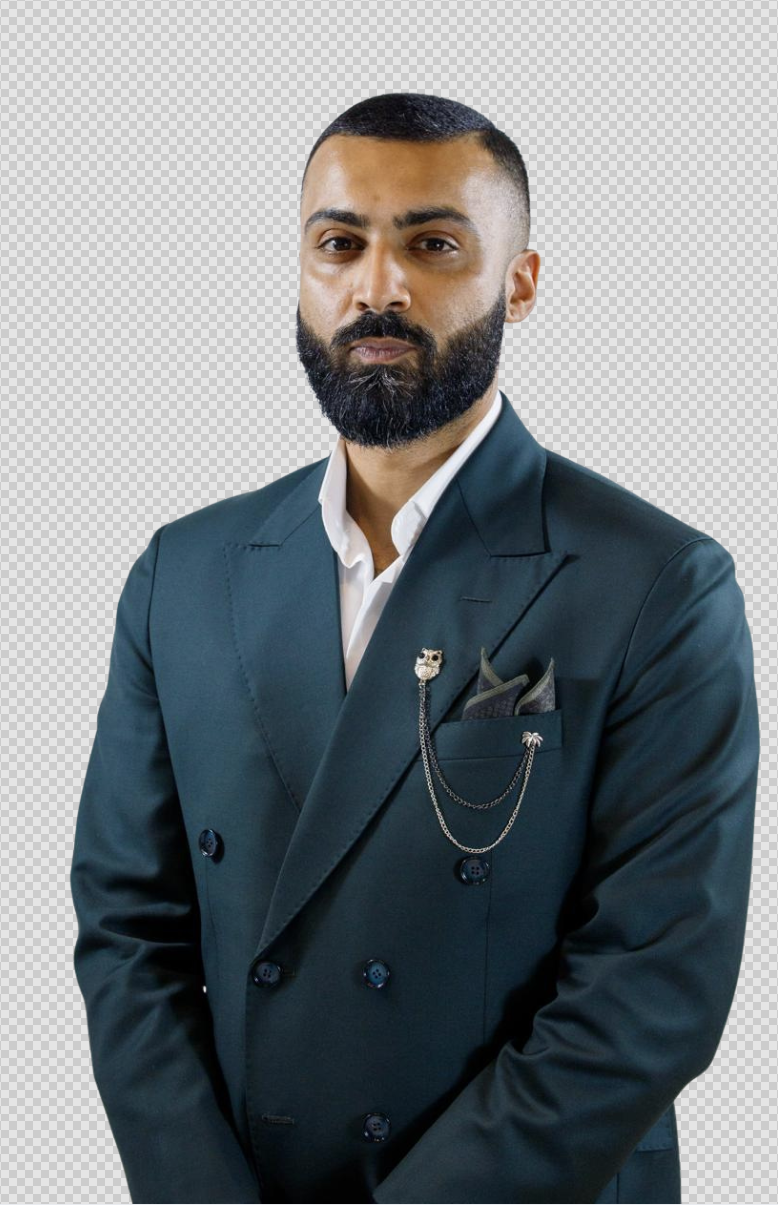
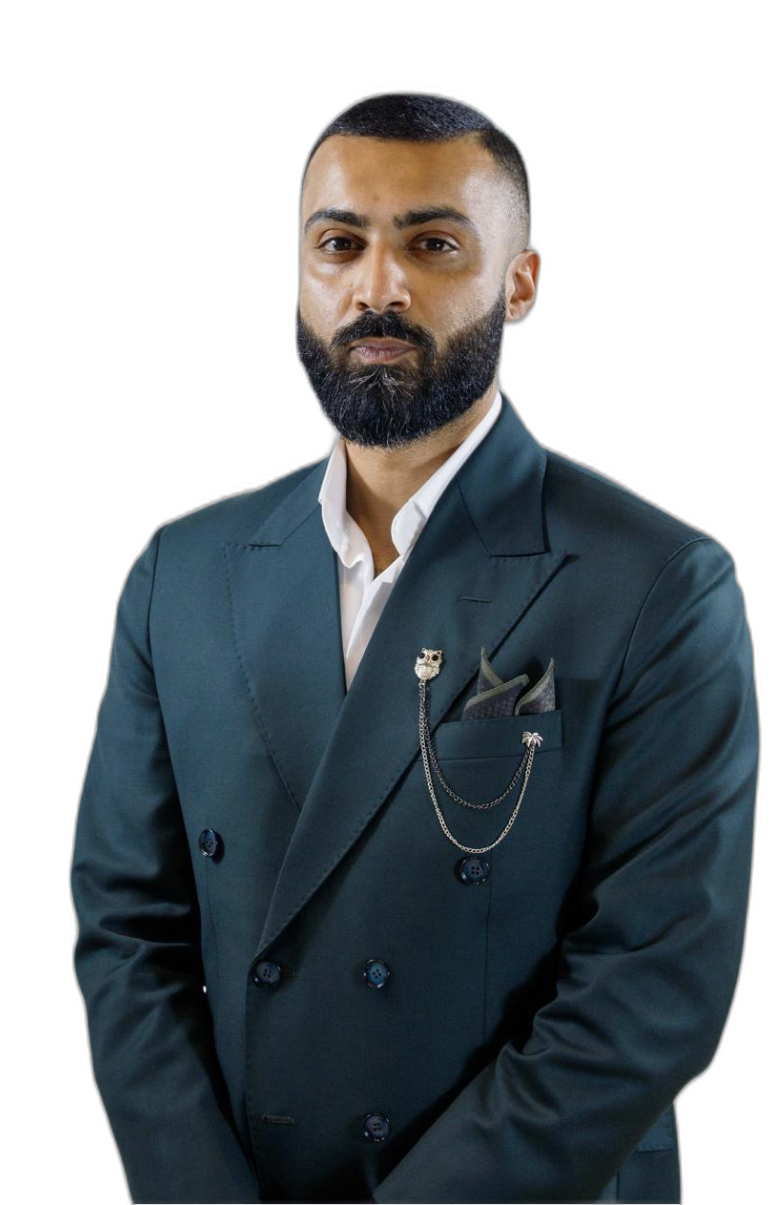
Celebration: full-number amounts, drop ghosted shadow, transparent team photos (rembg)
celebration.js:
- fmtAmount now uses toLocaleString('en-US') unconditionally —
  10,000,000 stays "10,000,000", not "10M". Per Balraj.
- Removed the .celeb-amount::before/::after pseudo-elements that
  rendered two more copies of the amount text offset by 4 / 8 px to
  fake 3D depth. On Safari they read as a ghosted "AED" duplicate
  beneath the main text instead of depth. The existing
  filter:drop-shadow on .celeb-amount alone gives plenty of dimension.

team/*.png:
- All six headshots run through rembg (U²-Net) — backgrounds removed,
  saved as 8-bit RGBA PNG with proper alpha. Originals preserved in
  team/_orig/ in case we ever want to revert.
- The celebration overlay's drop-shadow halo + gold glow ring now read
  against the dark background instead of being clipped to a square.

diff --git a/celebration.js b/celebration.js
@@ -211,23 +211,11 @@
         display: inline-block;
         filter: drop-shadow(0 12px 24px rgba(0,0,0,.5));
       }
-      /* 3D layered shadow stack */
-      .celeb-amount::before {
-        content: attr(data-text);
-        position: absolute; left: 4px; top: 4px;
-        background: linear-gradient(135deg, rgba(0,0,0,0.4), rgba(0,0,0,0.1));
-        -webkit-background-clip: text; background-clip: text;
-        color: transparent;
-        z-index: -1;
-      }
-      .celeb-amount::after {
-        content: attr(data-text);
-        position: absolute; left: 8px; top: 8px;
-        background: linear-gradient(135deg, rgba(0,0,0,0.25), rgba(0,0,0,0));
-        -webkit-background-clip: text; background-clip: text;
-        color: transparent;
-        z-index: -2;
-      }
+      /* The 3D layered shadow stack used to render two more copies of
+         the amount text via ::before/::after — but on Safari with a
+         long number the offsets read as a ghosted duplicate beneath
+         the main text instead of a 3D effect. Dropped — the existing
+         filter:drop-shadow on the main element gives plenty of depth. */
 
       /* Floating $ particles around the amount */
       .celeb-cash-burst {
@@ -441,10 +429,10 @@
   }
 
   function fmtAmount(n, currency = 'AED') {
+    // Always show the full number with thousands separators — Balraj wants
+    // "1,000,000 AED" on the celebration screen, not "1M".
     const num = Number(n) || 0;
-    if (num >= 1_000_000) return (num / 1_000_000).toFixed(num % 1_000_000 ? 2 : 0).replace(/\.?0+$/, '') + 'M';
-    if (num >= 1_000)     return (num / 1_000).toFixed(num % 1_000 ? 1 : 0).replace(/\.?0+$/, '') + 'K';
-    return num.toLocaleString();
+    return num.toLocaleString('en-US');
   }
 
   function countUp(el, target, currency, durationMs) {
